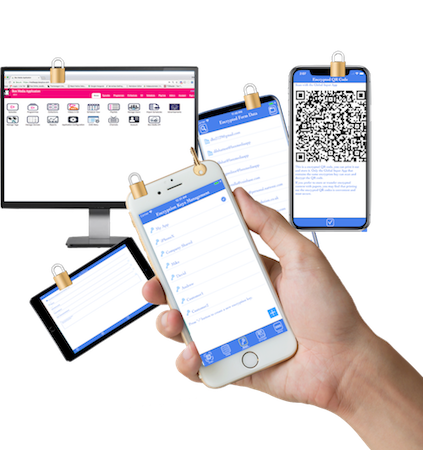
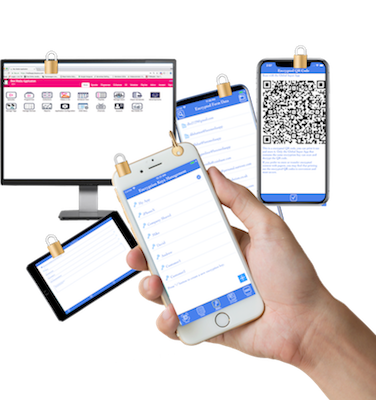
releasing

diff --git a/src/developers/DevelopersScreen.js b/src/developers/DevelopersScreen.js
@@ -65,18 +65,18 @@ render() {
                     buttonHRef={blockTextConfig.developers.jslibrary.install.link}/>
            </div>
            <div style={styles.itemSection}>
-                  <BookMark bookmark={blockTextConfig.developers.proxy.menu.bookmark}/>
-                 <DisplayTextImage title={blockTextConfig.developers.proxy.title} reverse={true}
-                    content={blockTextConfig.developers.proxy.content} image={images.proxyRepo}
-                    buttonLabel={blockTextConfig.developers.proxy.startButton}
-                    buttonHRef={blockTextConfig.developers.proxy.install.link}/>
+                  <BookMark bookmark={blockTextConfig.developers.websocketServer.menu.bookmark}/>
+                 <DisplayTextImage title={blockTextConfig.developers.websocketServer.title} reverse={true}
+                    content={blockTextConfig.developers.websocketServer.content} image={images.proxyRepo}
+                    buttonLabel={blockTextConfig.developers.websocketServer.startButton}
+                    buttonHRef={blockTextConfig.developers.websocketServer.install.link}/>
            </div>
            <div style={styles.itemSection}>
-                  <BookMark bookmark={blockTextConfig.developers.example.menu.bookmark}/>
-                 <DisplayTextImage title={blockTextConfig.developers.example.title} 
-                    content={blockTextConfig.developers.example.content} image={images.websiteCode}
-                    buttonLabel={blockTextConfig.developers.example.startButton}
-                    buttonHRef={blockTextConfig.developers.example.install.link}/>
+                  <BookMark bookmark={blockTextConfig.developers.websiteSourceCode.menu.bookmark}/>
+                 <DisplayTextImage title={blockTextConfig.developers.websiteSourceCode.title}
+                    content={blockTextConfig.developers.websiteSourceCode.content} image={images.websiteCode}
+                    buttonLabel={blockTextConfig.developers.websiteSourceCode.startButton}
+                    buttonHRef={blockTextConfig.developers.websiteSourceCode.install.link}/>
            </div>
 
 

diff --git a/src/page-templates/sections/PageAdvert.js b/src/page-templates/sections/PageAdvert.js
@@ -98,25 +98,7 @@ renderInstall(){
     }
 }
 
-renderAdverts(){
 
-      var pageDescription=styles.pageDescription;
-      if(this.props.image){
-          pageDescription=styles.pageDescriptionWithImage;
-      }
-      var advertItem=this.props.advert.items[this.state.index];
-
-    return (
-      <div style={pageDescription}>
-          <div className={advertItem.className}>
-                <div style={styles.advertTitle}>{advertItem.title}</div>
-                <DisplayStaticContent content={advertItem.content} lineStyle={styles.advertContent}/>
-          </div>
-          {this.renderInstall()}
-      </div>
-    );
-
-}
 renderImage(){
   if(this.props.image){
     if(this.props.mobileImage && styles.isMobile()){
@@ -142,9 +124,21 @@ render() {
     if(styles.isMobile()){
       pageDescriptionSection=styles.pageDescriptionSectionMobile;
     }
+    var pageDescription=styles.pageDescription;
+     if(this.props.image){
+         pageDescription=styles.pageDescriptionWithImage;
+     }
+    var advertItem=this.props.advert.items[this.state.index];
+    advertItem=this.props.advert.items[1];
     return (
                       <div style={pageDescriptionSection}>
-                            {this.renderAdverts()}
+                              <div style={pageDescription}>
+                                  <div className={advertItem.className}>
+                                        <div style={styles.advertTitle}>{advertItem.title}</div>
+                                        <DisplayStaticContent content={advertItem.content} lineStyle={styles.advertContent}/>
+                                  </div>
+                                  {this.renderInstall()}
+                              </div>
                             {this.renderImage()}
 
                       </div>

diff --git a/src/page-templates/configs/blockTextConfig.js b/src/page-templates/configs/blockTextConfig.js
@@ -1,6 +1,6 @@
 import chromeExtensionConfig from "./chromeExtensionConfig";
 import developerTextConfig from "./developers/developerTextConfig";
-import exampleConfig from "./developers/exampleConfig";
+import websiteSourceCodeConfig from "./developers/websiteSourceCodeConfig";
 import introductionToJSlibraryConfig from "./developers/introductionToJSlibraryConfig";
 import webSocketServerConfig from "./developers/webSocketServerConfig";
 import aboutTextConfig from "./about/aboutTextConfig";
@@ -12,9 +12,9 @@ const blockTextConfig={
       chrome:chromeExtensionConfig,
       developers:{
              home:developerTextConfig,
-             example:exampleConfig,
+             websiteSourceCode:websiteSourceCodeConfig,
              jslibrary:introductionToJSlibraryConfig,
-             proxy:webSocketServerConfig
+             websocketServer:webSocketServerConfig
 
          },
       about:{

diff --git a/src/page-templates/configs/developers/websiteSourceCodeConfig.js b/src/page-templates/configs/developers/websiteSourceCodeConfig.js
@@ -1,0 +1,16 @@
+const websiteSourceCodeConfig={
+  title:"The Source Code of This Website",
+  menu:{
+     link:"/global-input-app/developers/websitesourcecode",
+     linkText:"Website Source Code",
+     bookmark:"websitesourcecode"
+   },
+   content:[{type:"line", content:["This website is created with ReactJS, and it contains a set of example components that use the ",{type:"a", content:"global-input-message", href:"https://github.com/global-input/global-input-message"}, " JavaScript library to extend an application into the mobile environment."]},
+            "These examples can be a good starting point for making applications operable with mobiles."],
+    install:{
+               link:"https://github.com/global-input/global-input-web",
+            },
+    startButton:"GitHub Repository"
+
+}
+export default websiteSourceCodeConfig;

diff --git a/src/components/text-image/DisplayTextImage.js b/src/components/text-image/DisplayTextImage.js
@@ -45,15 +45,17 @@ export  default class DisplayTextImage extends Component {
 
   }
   renderImage(){
+
     if(this.props.image){
         return(
           <div className="col-md-6">
-              <img src={this.props.image} className="img-responsive"/>
+              <img src={this.props.image} style={styles.image}/>
           </div>
         );
     }
   }
   render() {
+
           if(this.props.reverse){
             return (
                           <div className="row" >

diff --git a/src/about/AboutScreen.js b/src/about/AboutScreen.js
@@ -73,8 +73,9 @@ render() {
     return (
 
       <PageWithHeader  advert={blockTextConfig.about.home.advert}  selected={blockTextConfig.about.home.menu}
-        image={images.aboutGlobalInputApp}
-            mobileImage={images.aboutGlobalInputApp}
+        
+
+
 
         appTitle={blockTextConfig.about.home.appTitle} appSubtitle={blockTextConfig.about.home.appSubtitle}>
          <div style={styles.content}>

diff --git a/src/privacy/PrivacyScreen.js b/src/privacy/PrivacyScreen.js
@@ -69,7 +69,7 @@ render() {
 
       <PageWithHeader  advert={blockTextConfig.about.privacy.advert}  selected={blockTextConfig.about.privacy.menu}
         appTitle={blockTextConfig.about.privacy.appTitle}
-        image={images.privacy}
+        
             mobileImage={images.privacy}
 
         appSubtitle={blockTextConfig.about.privacy.appSubtitle}>

diff --git a/src/page-templates/sections/styles/index.js b/src/page-templates/sections/styles/index.js
@@ -148,11 +148,12 @@ const styles={
 
 styles.pageDescriptionSectionMobile=Object.assign({},styles.pageDescriptionSection,{
   flexDirection:"column",
-  alignItems:"flex-end"
+  //alignItems:"flex-end"
+
 });
 
 styles.pageDescriptionWithImage=Object.assign({},styles.pageDescription,{
-        minHeight:532,
+        //minHeight:400,
 
 });
 

diff --git a/src/components/menu/styles/index.js b/src/components/menu/styles/index.js
@@ -23,11 +23,7 @@ var styles={
     flexDirection: "column",
     width:"100%",
     justifyContent: "flex-start",
-    alignItems:"flex-start",
-    position:"fixed",
-    top:0,
-    left:0,
-    zIndex:2000,
+    alignItems:"flex-start",    
   },
   topnavmobile: {
     paddingRight:30,

diff --git a/src/components/text-image/styles/index.js b/src/components/text-image/styles/index.js
@@ -35,6 +35,10 @@ export const styles={
        color: "#414242",
        fontWeight: "lighter",
      },
+     image:{
+       maxWidth: "100%",
+       height: "auto"
+     }
 
 
 

diff --git a/src/page-templates/styles/index.js b/src/page-templates/styles/index.js
@@ -12,12 +12,6 @@ const styles={
             justifyContent:"flex-start",
             alignItems:"flex-start",
             width:"100%",
-
-
-
-            
-
-
         }
 };
 
